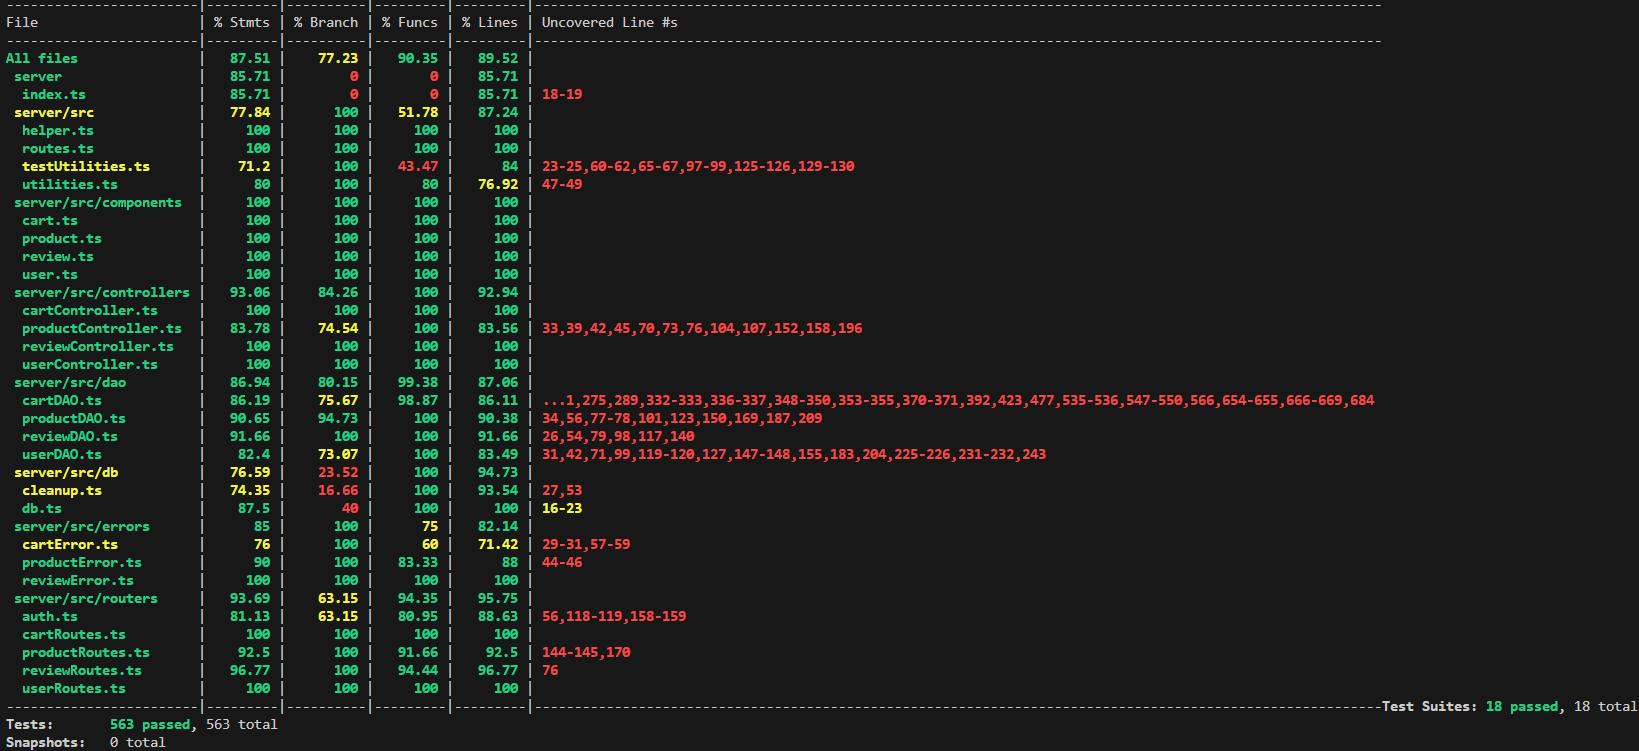
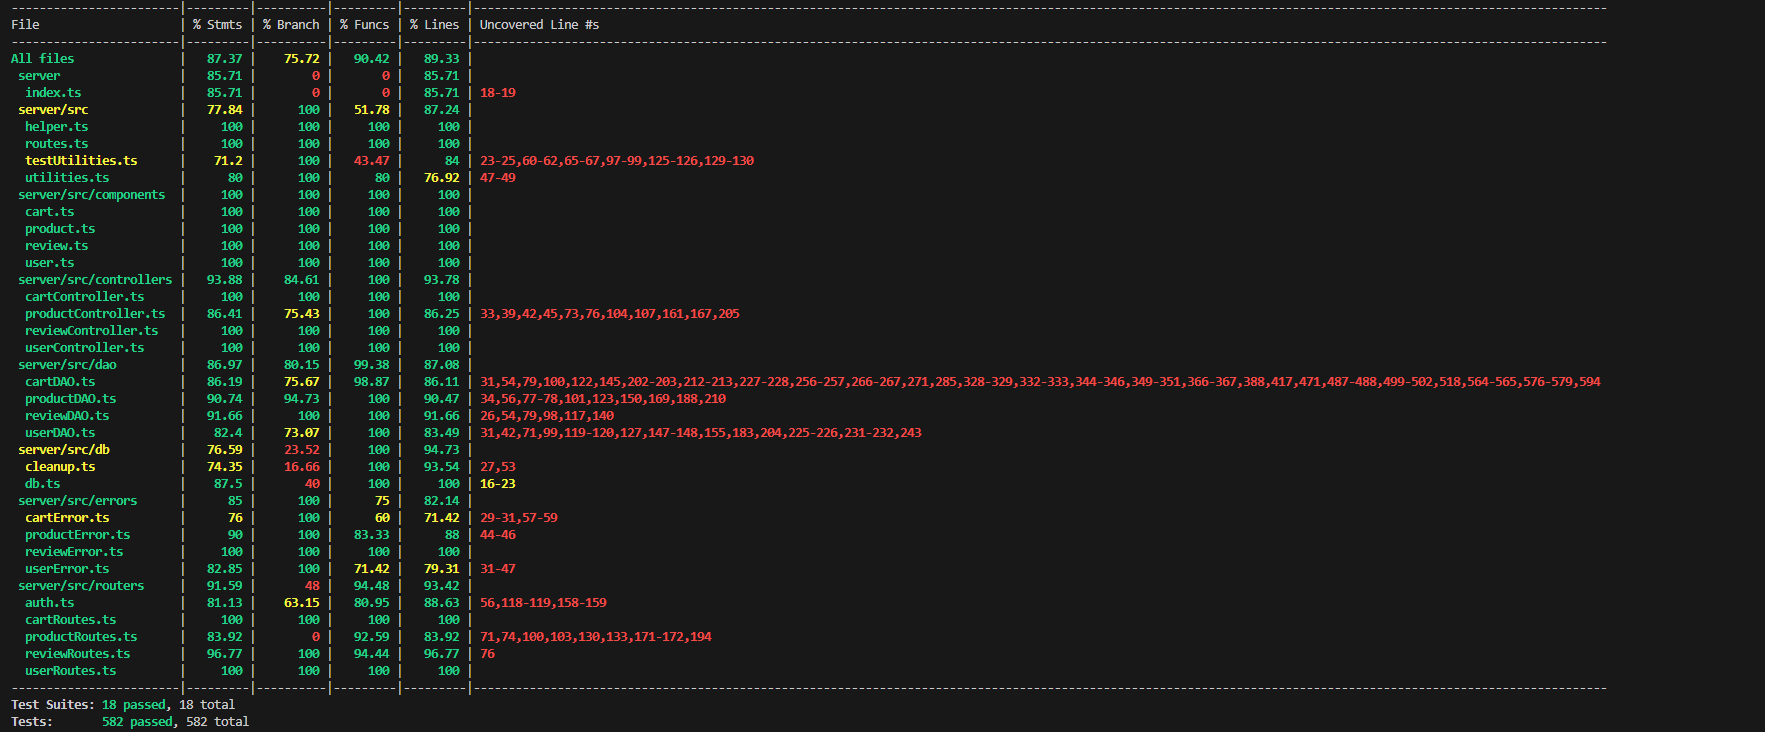
[EDIT] Improved coverage

Changed region(s): [[0.0, 0.0, 0.9024, 1.0], [0.8401, 0.9317, 1.0, 0.9617]]

diff --git a/code/server/test_unit/route_tests/product.test.ts b/code/server/test_unit/route_tests/product.test.ts
@@ -6,6 +6,8 @@ import ProductController from "../../src/controllers/productController";
 import Authenticator from "../../src/routers/auth";
 import { Product,Category } from "../../src/components/product";
 import ErrorHandler from "../../src/helper";
+import { ProductAlreadyExistsError, ProductNotFoundError } from "../../src/errors/productError";
+import { DateError } from "../../src/utilities";
 
 jest.mock('../../src/controllers/productController');
 
@@ -153,6 +155,54 @@ describe("ProductRoutes", () => {
             expect(ProductController.prototype.registerProducts).toHaveBeenCalledTimes(1);
          });
 
+         it("UPR1.6 - Conflict - 409 error code for existing product model", async () => {
+            spyAdmin();
+            enableMockedAuth(app);
+            
+            const testProduct = {
+                model: "GalaxyS21",
+                category: "Smartphone",
+                quantity: 10,
+                details: "Latest model",
+                sellingPrice: 999.99,
+                arrivalDate: "2023-01-01"
+            };
+                    jest.spyOn(ProductController.prototype, "registerProducts").mockRejectedValue(new ProductAlreadyExistsError());
+        
+            const response = await request(app)
+                .post(`${baseURL}/products`)
+                .send(testProduct)
+                .set('Content-Type', 'application/json');
+        
+            expect(Authenticator.prototype.isAdminOrManager).toHaveBeenCalledTimes(1);
+            expect(response.status).toBe(409);
+            expect(ProductController.prototype.registerProducts).toHaveBeenCalledTimes(1);
+        });
+
+        it("UPR1.7 - Bad Request - 400 error code for future arrival date", async () => {
+            spyAdmin();
+            enableMockedAuth(app);
+            
+            const testProduct = {
+                model: "GalaxyS21",
+                category: "Smartphone",
+                quantity: 10,
+                details: "Latest model",
+                sellingPrice: 999.99,
+                arrivalDate: "2025-01-01" 
+            };
+        
+            jest.spyOn(ProductController.prototype, "registerProducts").mockRejectedValue(new DateError()) ;
+            const response = await request(app)
+                .post(`${baseURL}/products`)
+                .send(testProduct)
+                .set('Content-Type', 'application/json');
+        
+            expect(Authenticator.prototype.isAdminOrManager).toHaveBeenCalledTimes(1);
+            expect(response.status).toBe(400);
+            expect(ProductController.prototype.registerProducts).toHaveBeenCalledTimes(1);
+        });
+
         
     });
     
@@ -275,6 +325,75 @@ describe("ProductRoutes", () => {
             expect(response.status).toBe(503);
             expect(ProductController.prototype.changeProductQuantity).toHaveBeenCalledTimes(1);
            });
+
+           it("UPR2.6 - Not Found - 404 error code for nonexistent product model", async () => {
+            spyAdmin();
+            enableMockedAuth(app);
+            
+            const testQuantityChange = {
+                quantity: 5,
+                changeDate: "2023-02-01"
+            };
+        
+            const model = "NonExistentModel";
+        
+            jest.spyOn(ProductController.prototype, "changeProductQuantity").mockRejectedValue(new ProductNotFoundError());
+        
+            const response = await request(app)
+                .patch(`${baseURL}/products/${model}`)
+                .send(testQuantityChange)
+                .set('Content-Type', 'application/json');
+        
+            expect(Authenticator.prototype.isAdminOrManager).toHaveBeenCalledTimes(1);
+            expect(response.status).toBe(404);
+            expect(ProductController.prototype.changeProductQuantity).toHaveBeenCalledTimes(1);
+        });
+
+        it("UPR2.7 - Bad Request - 400 error code for future change date", async () => {
+            spyAdmin();
+            enableMockedAuth(app);
+            
+            const testQuantityChange = {
+                quantity: 5,
+                changeDate: "2025-02-01"  // Future date
+            };
+        
+            const model = "GalaxyS21";
+        
+            jest.spyOn(ProductController.prototype, "changeProductQuantity").mockRejectedValue(new DateError());
+        
+            const response = await request(app)
+                .patch(`${baseURL}/products/${model}`)
+                .send(testQuantityChange)
+                .set('Content-Type', 'application/json');
+        
+            expect(Authenticator.prototype.isAdminOrManager).toHaveBeenCalledTimes(1);
+            expect(response.status).toBe(400);
+            expect(ProductController.prototype.changeProductQuantity).toHaveBeenCalledTimes(1);
+        });
+
+        it("UPR2.8 - Bad Request - 400 error code for change date before arrival date", async () => {
+            spyAdmin();
+            enableMockedAuth(app);
+            
+            const testQuantityChange = {
+                quantity: 5,
+                changeDate: "2022-12-31"  // Before arrival date
+            };
+        
+            const model = "GalaxyS21";
+        
+            jest.spyOn(ProductController.prototype, "changeProductQuantity").mockRejectedValue(new DateError());
+        
+            const response = await request(app)
+                .patch(`${baseURL}/products/${model}`)
+                .send(testQuantityChange)
+                .set('Content-Type', 'application/json');
+        
+            expect(Authenticator.prototype.isAdminOrManager).toHaveBeenCalledTimes(1);
+            expect(response.status).toBe(400);
+            expect(ProductController.prototype.changeProductQuantity).toHaveBeenCalledTimes(1);
+        });
     
     });
     
@@ -399,7 +518,119 @@ describe("ProductRoutes", () => {
                 expect(response.status).toBe(503);
                 expect(ProductController.prototype.sellProduct).toHaveBeenCalledTimes(1);
             });
-        
+            it("UPR3.6 - Not Found - 404 error code for nonexistent product model", async () => {
+                spyAdmin();
+                enableMockedAuth(app);
+            
+                const testSale = {
+                    quantity: 3,
+                    sellingDate: "2023-03-01"
+                };
+            
+                const model = "NonExistentModel";
+            
+                jest.spyOn(ProductController.prototype, "sellProduct").mockRejectedValue(new ProductNotFoundError());
+            
+                const response = await request(app)
+                    .patch(`${baseURL}/products/${model}/sell`)
+                    .send(testSale)
+                    .set('Content-Type', 'application/json');
+            
+                expect(Authenticator.prototype.isAdminOrManager).toHaveBeenCalledTimes(1);
+                expect(response.status).toBe(404);
+                expect(ProductController.prototype.sellProduct).toHaveBeenCalledTimes(1);
+            });
+
+            it("UPR3.7 - Bad Request - 400 error code for future selling date", async () => {
+                spyAdmin();
+                enableMockedAuth(app);
+            
+                const testSale = {
+                    quantity: 3,
+                    sellingDate: "2025-03-01" 
+                };
+            
+                const model = "GalaxyS21";
+            
+                jest.spyOn(ProductController.prototype, "sellProduct").mockRejectedValue(new DateError());
+            
+                const response = await request(app)
+                    .patch(`${baseURL}/products/${model}/sell`)
+                    .send(testSale)
+                    .set('Content-Type', 'application/json');
+            
+                expect(Authenticator.prototype.isAdminOrManager).toHaveBeenCalledTimes(1);
+                expect(response.status).toBe(400);
+                expect(ProductController.prototype.sellProduct).toHaveBeenCalledTimes(1);
+            });
+
+            it("UPR3.8 - Bad Request - 400 error code for selling date before arrival date", async () => {
+                spyAdmin();
+                enableMockedAuth(app);
+            
+                const testSale = {
+                    quantity: 3,
+                    sellingDate: "2022-12-31"  
+                };
+            
+                const model = "GalaxyS21";
+            
+                jest.spyOn(ProductController.prototype, "sellProduct").mockRejectedValue(new DateError());
+            
+                const response = await request(app)
+                    .patch(`${baseURL}/products/${model}/sell`)
+                    .send(testSale)
+                    .set('Content-Type', 'application/json');
+            
+                expect(Authenticator.prototype.isAdminOrManager).toHaveBeenCalledTimes(1);
+                expect(response.status).toBe(400);
+                expect(ProductController.prototype.sellProduct).toHaveBeenCalledTimes(1);
+            });
+
+            it("UPR3.9 - Conflict - 409 error code for product with zero available quantity", async () => {
+                spyAdmin();
+                enableMockedAuth(app);
+            
+                const testSale = {
+                    quantity: 3,
+                    sellingDate: "2023-03-01"
+                };
+            
+                const model = "GalaxyS21";
+            
+                jest.spyOn(ProductController.prototype, "sellProduct").mockRejectedValue(new ProductAlreadyExistsError());
+            
+                const response = await request(app)
+                    .patch(`${baseURL}/products/${model}/sell`)
+                    .send(testSale)
+                    .set('Content-Type', 'application/json');
+            
+                expect(Authenticator.prototype.isAdminOrManager).toHaveBeenCalledTimes(1);
+                expect(response.status).toBe(409);
+                expect(ProductController.prototype.sellProduct).toHaveBeenCalledTimes(1);
+            });
+            it("UPR3.10 - Conflict - 409 error code for requested quantity greater than available", async () => {
+                spyAdmin();
+                enableMockedAuth(app);
+            
+                const testSale = {
+                    quantity: 10,  // Requesting more than available
+                    sellingDate: "2023-03-01"
+                };
+            
+                const model = "GalaxyS21";
+            
+                jest.spyOn(ProductController.prototype, "sellProduct").mockRejectedValue(new ProductAlreadyExistsError());
+            
+                const response = await request(app)
+                    .patch(`${baseURL}/products/${model}/sell`)
+                    .send(testSale)
+                    .set('Content-Type', 'application/json');
+            
+                expect(Authenticator.prototype.isAdminOrManager).toHaveBeenCalledTimes(1);
+                expect(response.status).toBe(409);
+                expect(ProductController.prototype.sellProduct).toHaveBeenCalledTimes(1);
+            });
     });
         
         describe("UPR4 GET /ezelectronics/products", () => {
@@ -490,6 +721,8 @@ describe("ProductRoutes", () => {
                 expect(response.status).toBe(401);
                 expect(ProductController.prototype.getProducts).toHaveBeenCalledTimes(0);
             });
+            
+            
         });
         
         describe("UPR5 GET /ezelectronics/products/available", () => {

diff --git a/code/server/test_integration/product.test.ts b/code/server/test_integration/product.test.ts
@@ -359,6 +359,18 @@ describe('Integration ROUTE - CONTROLLER - DAO - DB for Products', () => {
             const response = await request(app).post(baseURL).send({ model: "iPhone13" }).set("Cookie", adminCookie);
             expect(response.status).toBe(422); //parametri errati perchè ho passato solo modello => mi aspetto 422
         });
+        
+        test("IPR1.3 Error on duplicate product model", async () => {
+            await request(app).post(baseURL).send(testProduct).set("Cookie", adminCookie);
+            const response = await request(app).post(baseURL).send(testProduct).set("Cookie", adminCookie);
+            expect(response.status).toBe(409); 
+        });
+    
+        test("IPR1.4 Error on invalid arrival date", async () => {
+            const invalidProduct = { ...testProduct, arrivalDate: "3024-06-01" }; 
+            const response = await request(app).post(baseURL).send(invalidProduct).set("Cookie", adminCookie);
+            expect(response.status).toBe(400); 
+        });
     });
 
     describe("IPR2 PATCH /ezelectronics/products/:model", () => {
@@ -373,6 +385,23 @@ describe('Integration ROUTE - CONTROLLER - DAO - DB for Products', () => {
             const response = await request(app).patch(`${baseURL}/nonExistingModel`).send(testProductUpdated).set("Cookie", adminCookie);
             expect(response.status).toBe(404);
         });
+
+        test("IPR2.3 Error if model does not represent a product in the database", async () => {
+            const response = await request(app).patch(`${baseURL}/nonExistingModel`).send(testProductUpdated).set("Cookie", adminCookie);
+            expect(response.status).toBe(404); 
+        });
+    
+        test("IPR2.4 Error if changeDate is after the current date", async () => {
+            const futureDateUpdate = { ...testProductUpdated, changeDate: "3024-06-01" }; // Future change date
+            const response = await request(app).patch(`${baseURL}/${testProduct.model}`).send(futureDateUpdate).set("Cookie", adminCookie);
+            expect(response.status).toBe(400); 
+        });
+    
+        test("IPR2.5 Error if changeDate is before the product's arrivalDate", async () => {
+            const pastDateUpdate = { ...testProductUpdated, changeDate: "2023-04-01" }; // Before arrival date
+            const response = await request(app).patch(`${baseURL}/${testProduct.model}`).send(pastDateUpdate).set("Cookie", adminCookie);
+            expect(response.status).toBe(400); 
+        });
     });
 
     describe("IPR3 PATCH /ezelectronics/products/:model/sell", () => {
@@ -386,6 +415,25 @@ describe('Integration ROUTE - CONTROLLER - DAO - DB for Products', () => {
             const response = await request(app).patch(`${baseURL}/${testProduct.model}/sell`).send({ quantity: 100 }).set("Cookie", adminCookie);
             expect(response.status).toBe(409);
         });
+
+        test("IPR3.3 Error if model does not represent a product in the database", async () => {
+            const response = await request(app).patch(`${baseURL}/nonExistingModel/sell`).send(testProductSell).set("Cookie", adminCookie);
+            expect(response.status).toBe(404); 
+        });
+    
+        test("IPR3.4 Error if sellingDate is after the current date", async () => {
+            const futureDateSell = { ...testProductSell, sellingDate: "3024-07-01" }; 
+            const response = await request(app).patch(`${baseURL}/${testProduct.model}/sell`).send(futureDateSell).set("Cookie", adminCookie);
+            expect(response.status).toBe(400); 
+        });
+    
+        test("IPR3.5 Error if sellingDate is before the product's arrivalDate", async () => {
+            const pastDateSell = { ...testProductSell, sellingDate: "2023-04-01" }; 
+            const response = await request(app).patch(`${baseURL}/${testProduct.model}/sell`).send(pastDateSell).set("Cookie", adminCookie);
+            expect(response.status).toBe(400);
+        });
+    
+    
     });
 
     describe("IPR4 GET /ezelectronics/products", () => {
@@ -439,6 +487,14 @@ describe('Integration ROUTE - CONTROLLER - DAO - DB for Products', () => {
             const nonExistentModel = 'nonExistentModel';
             const response = await request(app)
                 .delete(`${baseURL}/${nonExistentModel}`)
+                .set("Cookie", adminCookie);
+            
+            expect(response.status).toBe(404);
+        });
+
+        test("IPR6.3 Error - try to delete a model that does not represent a product in the database", async () => {
+            const response = await request(app)
+                .delete(`${baseURL}/nonExistingModel`)
                 .set("Cookie", adminCookie);
             
             expect(response.status).toBe(404);
